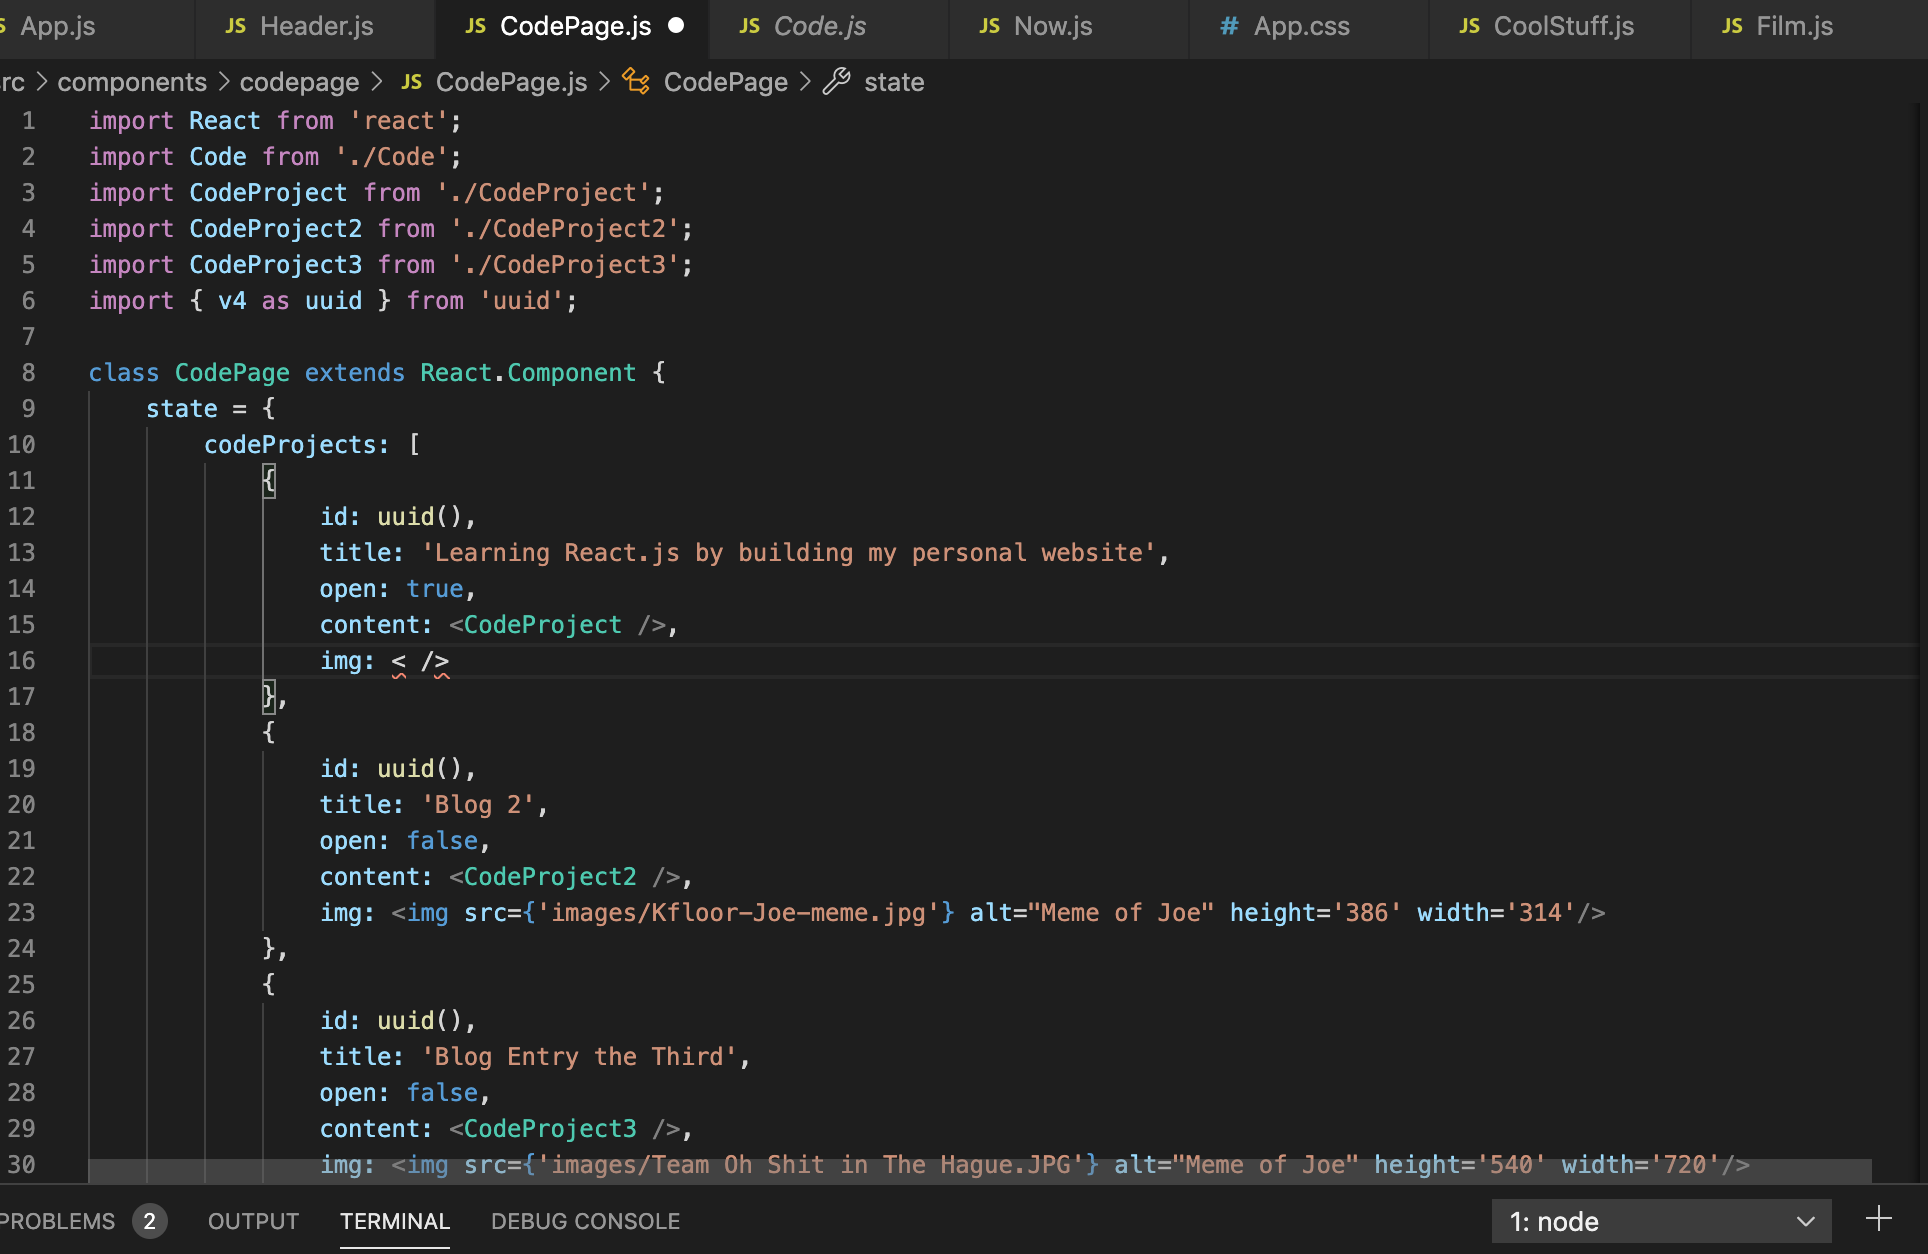
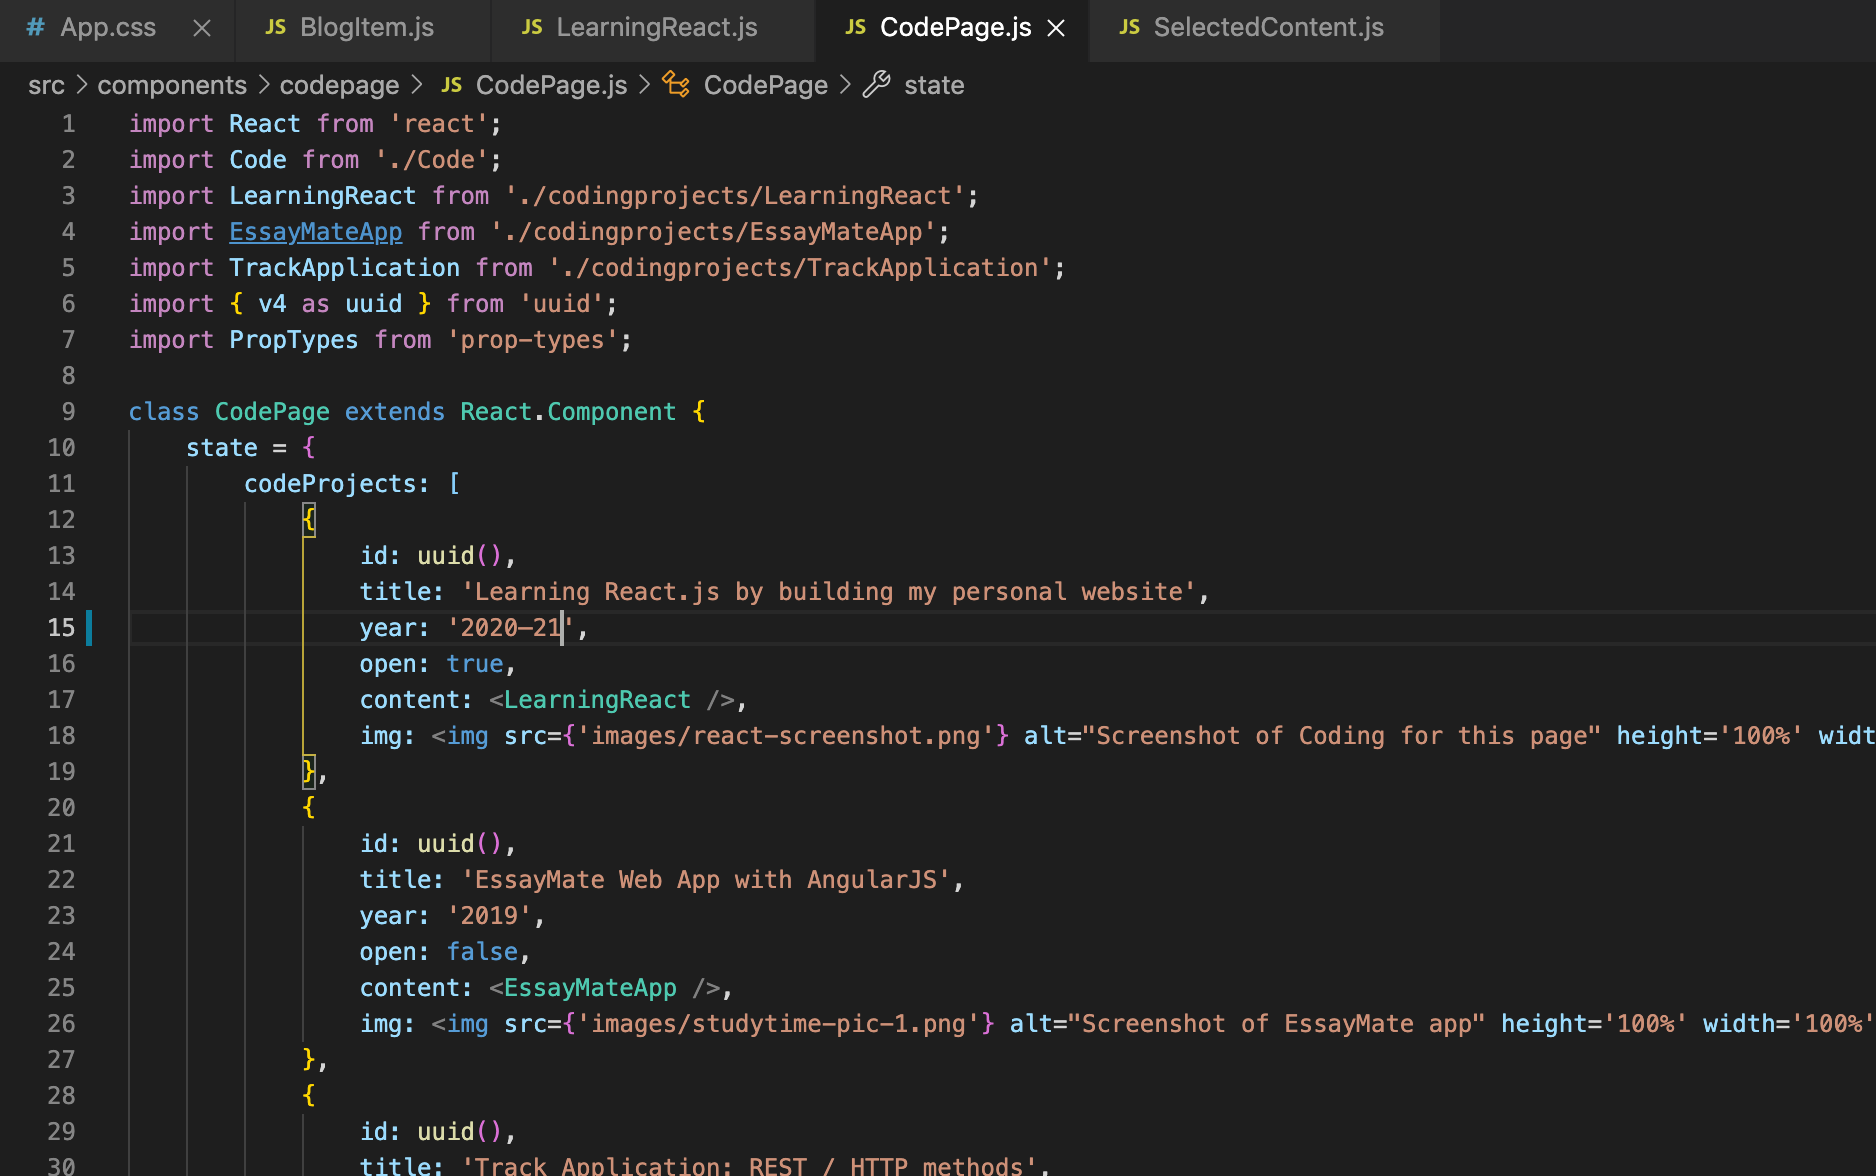
A066: update react code page post
Updated the content of the post. Added one image, and changed
the main image as well.

diff --git a/src/components/codepage/codingprojects/LearningReact.js b/src/components/codepage/codingprojects/LearningReact.js
@@ -5,27 +5,26 @@ class LearningReact extends React.Component {
         return (
             <div>
                 <p>
-                I became curious about React in late-2019, while I was interning at Virsae in Auckland. I had known about it for a lot longer, as when I first learned JavaScript I had heard about the advances made by the teams behind Angular and React.js, and the advantages that Single Page Application (SPA) libraries provided generally. During my time at Virsae I was programming using Angular, which I found very satisfactory to use, but I heard at one point one of the guys on the team saying that he preferred React to Angular. I knew that Angular and React together were the most popularly–used JavaScript libraries, and by this stage I knew enough about Angular to start wondering about the ways in which React was different.
+                I became curious about React in late-2019, while I was interning at Virsae in Auckland. I had known about it for a lot longer, as I learned to program mainly using JavaScript and naturally gravitated towards Front–End Development. I therefore heard pretty soon about the advantages that Single Page Application libraries provide, and React is king of the SPAs in terms of usage. During my time at Virsae I was programming using Angular, which I found very satisfactory to use, but I had heard much talk from people who preferred React, including one of the guys I worked with. I knew enough about Angular by this stage to start wondering about the ways in which React was different, and I felt it could only benefit me in the long–term to diversify my knowledge of Front–End libraries rather than limit myself to one. A short time later, during the CoVid-19 lockdown and my months of job–searching, I finally had plenty of time to dedicate to learning React, and you’re looking at the result! I had wanted to build a personal website for a while, to share my coding projects, blog, and general things I’m interested in, as well as to display my interests and personality. As such, I decided to code the project using React, killing two birds with one stone by using this as a learning opportunity.
                 </p>
                 <p>
-                During the CoVid-19 lockdown I finally had plenty of time to dedicate to learning React. The result? You’re looking at it :D I had wanted to build a personal website for a while, to share my coding projects, blog, and general things I’m interested in, as well as to display my interests and personality. As such, I decided to code this project using React, killing two birds with one stone.
+                My first port of call for learning React were the free tutorials on YouTube, including <a onClick={(event) => event.stopPropagation()} target="_blank" rel="noopener noreferrer" className="cyan" href="https://www.youtube.com/watch?v=sBws8MSXN7A">this brilliant one</a> by Traversy Media, which covers all the fundamentals of React. From this course I first learnt about component structure, JSX, state, props, and React Routing. YouTube has some really helpful courses created by very talented programming teachers such as Brad Traversy. In coordination with such free content, there are lots of subscription–service websites which have programming courses on them. I like to use <a onClick={(event) => event.stopPropagation()} target="_blank" rel="noopener noreferrer" className="cyan" href="https://www.codecademy.com/">codecademy</a> (which I also used to learn React) because all the learning is practical with their service, so as soon as you learn a concept you have to demonstrate that you can use it. However, codecademy’s model means that it takes them a long time to create each course, so they do not cover as much content as many other, video–based online tutorials, such as <a onClick={(event) => event.stopPropagation()} target="_blank" rel="noopener noreferrer" className="cyan" href="https://www.pluralsight.com/">PluralSight</a>, which is a great online learning platform for programmers that I have used and recommend. I don’t mind paying to one or maybe two platforms though, as I’ve found them to be more than worthwhile investments. YouTube is also good, but often the courses are shorter, less structured, or of a lower quality than the courses offered by the other platforms I have mentioned.
                 </p>
                 <p>
-                My first port of call for learning React were the free tutorials on YouTube, including <a onClick={(event) => event.stopPropagation()} target="_blank" rel="noopener noreferrer" className="cyan" href="https://www.youtube.com/watch?v=sBws8MSXN7A">this brilliant one</a> by Traversy Media, which covers all the fundamentals of React. From this course I learnt all about component structure, JSX, state, props, and React Routing. In general, when I start learning new a coding language, I start by looking for free courses on YouTube — there are some really helpful courses created by very talented programming teachers such as Brad Traversy. In coordination with such free courses, there are lots of websites which have programming courses on them. I like to use <a onClick={(event) => event.stopPropagation()} target="_blank" rel="noopener noreferrer" className="cyan" href="https://www.codecademy.com/">codecademy</a> (which I also used to learn React) because all the learning is practical with their service, so as soon as you learn a concept you have to demonstrate that you can use it. However, codecademy’s model means that it takes them a long time to create each course, so they do not cover as much content as many other, video–based online tutorials. PluralSight is a great online learning platform for programmers that I have used and recommend. I also have used Coursera, and heard good things about Udemy.
+                After some online tutorials, or perhaps during, it’s time to get coding! I rewatched Brad Traversy’s React tutorial and based the skeleton of my website on logic of the ToDo list he made in his tutorial. During this process I continuously consulted the official <a onClick={(event) => event.stopPropagation()} target="_blank" rel="noopener noreferrer" className="cyan" href="https://reactjs.org/docs/getting-started.html">React documentation</a>, which is also very helpful, as are the copious amounts of articles online about using React (most of them anyway). To briefly describe the core architecture of my website, I have a main index.js component, into which my App component is rendered. All my other components are routed into my App component. These components include a Blog component, a Code component, a Now component, a Film component, a Cool Stuff component, and a homepage component — basically all the links you can see in the navigation menu, aside from the homepage component which is accessed by clicking my name at the top of the page. Some of these components also have subcomponents which can be accessed by clicking different elements of the component page — such as the different coding projects on this coding page component. And the great thing about React is that toggling between pages is near–instantaneous, which is the beauty of SPAs.
                 </p>
-                <p>
-                These online platforms dedicated to learning coding languages cover a lot of content in a very structured way. YouTube is also good, but often the courses are shorter, less structured, or of a lower quality than the courses offered by the other platforms I have mentioned. The downside is that these coding platforms are often subscription services, and their free trials restrict your access to content. I don’t mind paying to one or maybe two platforms, though, at least on occasion as I’ve found them to be worthwhile investments.
-                </p>
-                <p>
-                After the online tutorials (or perhaps during), it’s time to get coding! I rewatched Brad Traversy’s React tutorial and based the skeleton of my website on logic of the ToDo list he made in his tutorial. During this process I consulted the official <a onClick={(event) => event.stopPropagation()} target="_blank" rel="noopener noreferrer" className="cyan" href="https://reactjs.org/docs/getting-started.html">React documentation</a> many times, which is also very helpful. To briefly describe the architecture of my website, I have a main index.js component, into which my App component is rendered. All my other components are routed into my App component. These components include a Blog component, a Code component, a Now component, a Film component, a Cool Stuff component, and a homepage component — basically all the links you can see in the navigation bar, aside from the homepage component which is accessed by clicking my name at the top of the page. Some of these components also have subcomponents which can be accessed by clicking different elements of the component page — such as the different coding projects on this coding page component. And the great thing about React is that page loading is near–instantaneous, which is the beauty of SPAs.
-                </p>
-                <p>
-                So — Angular or React?
-                </p>
-                <p>
-                Difficult question. I have to say that I do find React.js very readable. I like the concept of the virtual DOM — it makes targeted page manipulation a lot quicker and easier, which makes React.js very satisfying to use. However, after being so immersed in React for so long, I’m now ironically a bit curious to use Angular again. Angular did seem more complex, which means there is a lot more I can learn from it.
-                </p>
-
+                <div className="code-blog-entry-content-img">
+                    <figure>
+                        <img src={'images/personal-website-trello.png'} alt="The scrum board for this project" height='100%' width='100%'/>
+                        <figcaption>The scrum board for this project</figcaption>
+                    </figure>
+                </div>
+               <p>
+               Over time my project became more complex as I thought of new features to include on the website. I eventually decided to start treating it as if it were a professional commitment, so I started a scrum board, and began keeping track of all the features I had added, those I wanted to add, and those I was currently working on, using a service called <a onClick={(event) => event.stopPropagation()} target="_blank" rel="noopener noreferrer" className="cyan" href="https://www.trello.com/">Trello</a>, which is fantastic for agile programming. I implemented Git versioning control probably far later than I should have, which allowed me to easily revert to a previous version of the website if necessary. I began to realise with some satisfaction that what had started as a side–project for learning and experimentation was becoming something much larger which I was beginning felt a bit proud of. I wanted to share the site with friends and colleagues on my social media pages, but beforehand I decided to conduct some user testing, which was probably the best idea I had. I got some really good advice, both from friends who are also programmers as well as those that aren’t, a lot of which I’m extremely relieved to be able to hear and do something about before publishing the site. I also don’t know if it’s just because I asked friends to do the user testing for me, but everyone I approached really liked the site, which increased my confidence and eagerness to publish it for a wider audience.
+               </p>
+               <p>
+               As it stands in early–2021, the website is hosted on <a onClick={(event) => event.stopPropagation()} target="_blank" rel="noopener noreferrer" className="cyan" href="https://www.heroku.com/">Heroku</a>, and has the features I mentioned above as well as a Subscribe component, which allows users to sign up for email updates to the pages of the site that they are interested in, as well as many other smaller features and easter eggs which can be found by exploring around. I’m very satisfied with the result, which is a kind of hybrid personal–professional hub for me to share things with the world (not exactly a typical portfolio website exactly, but hey). I think it’s very interesting that I didn’t know what it would look like when I started, and that the project grew outwards over time in true agile programming fashion. With new professional commitments coming into my life in 2021, the website will no longer be my primary focus, but I am going to continue to add and curate content over time, and to post updates for anyone who is interested on my Instagram, as well as to my Email Subscriber List. I also have a lot of code improvements and updates to add — after my user testing, many of my programmer friends were kind enough to examine the source code (which anyone can view on my GitHub page, by clicking the GitHub icon below, or above for mobile), and to make a lot of suggestions and recommendations, and no doubt I will also think of new features to create and add to the website, so the work doesn’t stop now! I’m excited to continue with it into the future, and extremely glad with what has come out of a pet project which I used to learn React.
+               </p>
             </div>
         )
     }

diff --git a/src/components/codepage/CodePage.js b/src/components/codepage/CodePage.js
@@ -12,7 +12,7 @@ class CodePage extends React.Component {
             {
                 id: uuid(),
                 title: 'Learning React.js by building my personal website',
-                year: '2020',
+                year: '2020–21',
                 open: true,
                 content: <LearningReact />,
                 img: <img src={'images/react-screenshot.png'} alt="Screenshot of Coding for this page" height='100%' width='100%'/>
